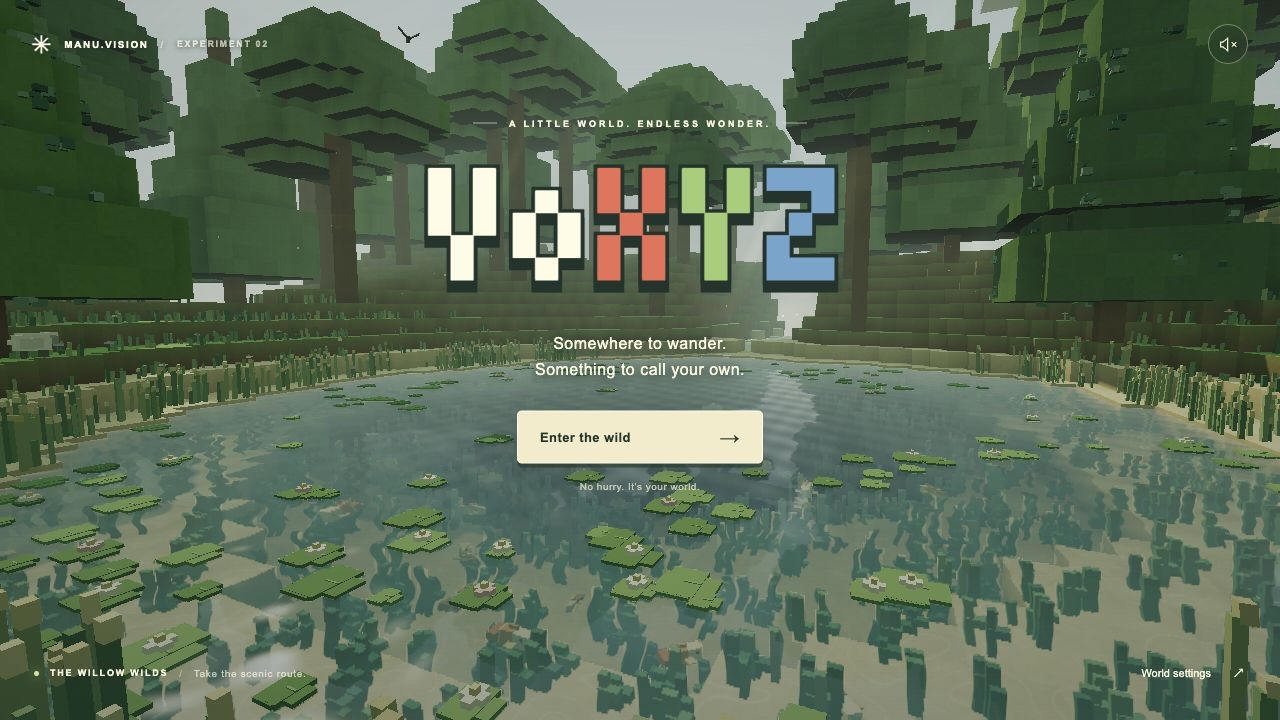
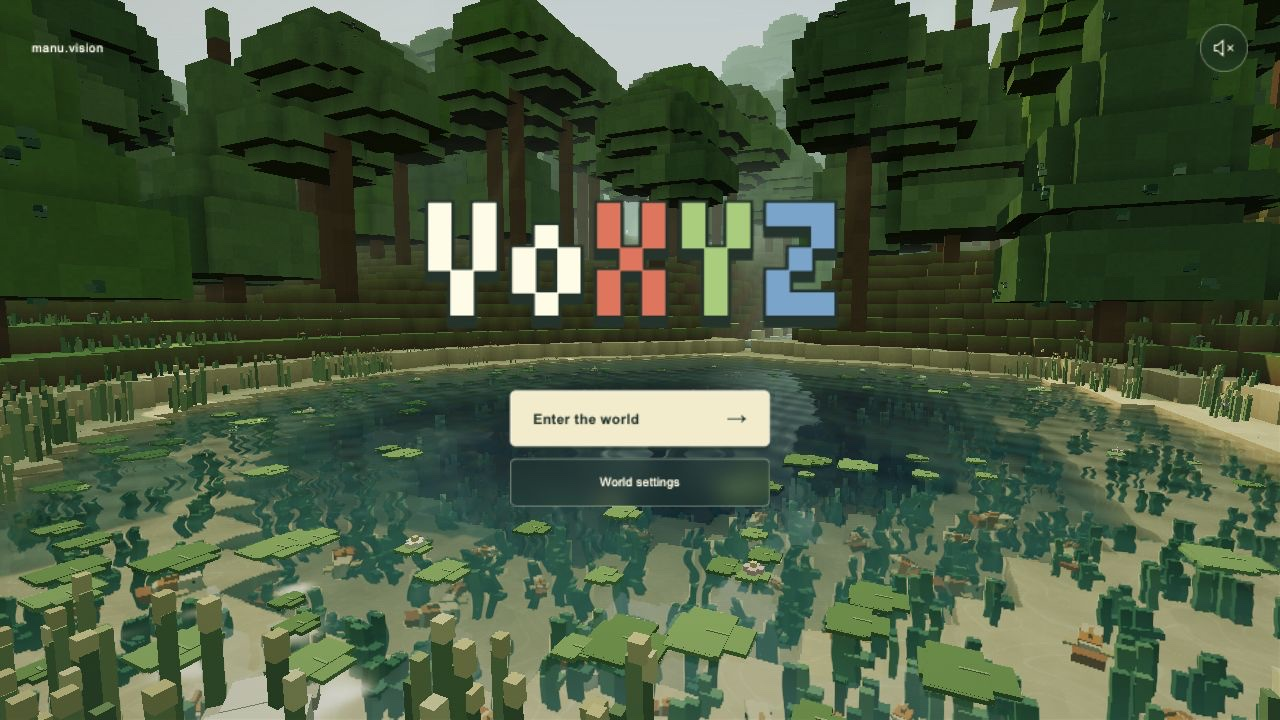
Verify Voxyz layouts and polish swim input and project preview

diff --git a/voxyz/tests/player.test.js b/voxyz/tests/player.test.js
@@ -391,3 +391,25 @@ test('a cancelled locked pointer stops its held action even without a button num
   f.tick(.5);
   assert.deepEqual(f.actions, ['break']);
 });
+
+test('a swim-up tap released before the next frame creates a short stroke, not a lost input or a held ascent', () => {
+  const water = (x, y) => y < 1 ? 1 : y < 8 ? 7 : 0;
+  const idle = fixture(water);
+  const tapped = fixture(water);
+  const held = fixture(water);
+  for (const f of [idle, tapped, held]) { f.player.teleport(.5, 1, .5); f.tick(.3); }
+  tapped.controls['jump-button'].dispatch('pointerdown', { pointerId: 1, pointerType: 'touch' });
+  tapped.win.dispatch('pointerup', { pointerId: 1, pointerType: 'touch' });
+  held.controls['jump-button'].dispatch('pointerdown', { pointerId: 2, pointerType: 'touch' });
+  assert.equal(tapped.player._touchJump, false, 'the complete tap happened before any physics update');
+  for (const f of [idle, tapped, held]) f.tick(.12);
+  assert.ok(tapped.player.position.y > idle.player.position.y + .05, 'buffered tap visibly lifts the player from the pond floor');
+  assert.ok(tapped.player.velocity.y > 0);
+  for (const f of [idle, tapped, held]) f.tick(.7);
+  assert.ok(held.player.position.y > tapped.player.position.y + .7, 'holding still sustains swimming after the tap stroke ends');
+  assert.equal(tapped.player._jumpBuffer, 0);
+  assert.ok(tapped.player.velocity.y <= 0, 'a released tap does not keep accelerating upward');
+  tapped.tick(1);
+  assert.ok(Math.abs(tapped.player.position.y - 1) < .0001);
+  for (const f of [idle, tapped, held]) f.player.dispose();
+});

diff --git a/voxyz/index.html b/voxyz/index.html
@@ -3,7 +3,7 @@
 <head>
   <meta charset="utf-8"><meta name="viewport" content="width=device-width,initial-scale=1,maximum-scale=1,viewport-fit=cover">
   <meta name="theme-color" content="#243d34"><meta name="description" content="Explore, shape, and settle into Voxyz, a living voxel wilderness by Manu.Vision.">
-  <meta property="og:title" content="Voxyz"><meta property="og:description" content="A cozy, living voxel wilderness. Wander, swim, build, and discover."><meta property="og:image" content="https://manu.vision/voxyz/preview.jpg">
+  <meta property="og:title" content="Voxyz"><meta property="og:description" content="A cozy, living voxel wilderness. Wander, swim, build, and discover."><meta property="og:image" content="https://manu.vision/voxyz/preview.jpg?v=2">
   <meta property="og:type" content="website"><meta property="og:url" content="https://manu.vision/voxyz/"><meta name="twitter:card" content="summary_large_image"><link rel="canonical" href="https://manu.vision/voxyz/">
   <title>Voxyz</title>
   <link rel="icon" href="icon.svg" type="image/svg+xml"><link rel="stylesheet" href="style.css?v=2">

diff --git a/index.html b/index.html
@@ -273,7 +273,7 @@
                         <span><small>Tech Lab Design Research</small><strong>Protopica</strong></span><b aria-hidden="true">↗</b>
                     </a>
                     <a class="lab-card lab-card--voxyz" href="voxyz/">
-                        <picture><img src="voxyz/preview.jpg" alt="Voxyz: a reflective pond surrounded by a living voxel forest" width="1280" height="720" loading="lazy" decoding="async"></picture>
+                        <picture><img src="voxyz/preview.jpg?v=2" alt="Voxyz: a reflective pond surrounded by a living voxel forest" width="1280" height="720" loading="lazy" decoding="async"></picture>
                         <span><small>A Living Voxel World</small><strong>Voxyz</strong></span><b aria-hidden="true">↗</b>
                     </a>
                     <button class="lab-card lab-card--apps" type="button" data-dialog="appsDialog" aria-haspopup="dialog" aria-label="Open Manuel's Mobile Apps">

diff --git a/voxyz/player.js b/voxyz/player.js
@@ -466,7 +466,9 @@ export class Player {
       if (this._swimming) {
         // Buoyancy is conditional on being in water: holding jump cannot fly.
         this.velocity.y -= 4.5 * step;
-        if (wantsUp) this.velocity.y += 15.5 * step;
+        // A tap can start and finish between frames. Reuse the short jump
+        // buffer as a swim stroke while held input continues sustained ascent.
+        if (wantsUp || this._jumpBuffer > 0) this.velocity.y += 15.5 * step;
         if (wantsDown) this.velocity.y -= 7 * step;
         this.velocity.y *= Math.exp(-2.6 * step);
         this.velocity.y = clamp(this.velocity.y, -4, 3.6);

diff --git a/voxyz/README.md b/voxyz/README.md
@@ -74,13 +74,13 @@ Browser checks verified title-to-play camera handoff, hotbar keyboard selection,
 
 ## Control and exploration revision
 
-All 55 automated tests pass for this revision, and the local HTTP smoke check returns 200 for the entry page and every updated module. Browser visual verification and publishing remain pending because the development Mac is locked.
+All 56 automated tests pass for this revision, and the local HTTP smoke check returns 200 for the entry page and every updated module. Browser checks on September 6, 2026 verified the minimal title, five-slot inventory, direct camera dragging, camera leveling, immediate break/place actions, saved edits and discovery, map open/close, seed changes, and responsive control spacing at 390 × 844, 390 × 480 and 700 × 390. The map close button remains accessible with a 48-character seed.
 
 The title now contains only the logo, entry button and world-settings button, with the site and sound controls in the upper corners. The in-game inventory has five slots: Meadow, Stone, Timber, Water and Lantern. Touch action buttons respond on press and repeat while held; camera dragging follows pointer deltas without momentum. Center camera levels pitch and roll while preserving heading.
 
 Fine scenery uses coordinate-specific random streams so camera movement and edits cannot re-roll unrelated plants. Animal identities and animation state survive scenery refreshes. Map discovery has its own compact, persistent per-seed grid; raster sampling is cached, bounded and restricted to discovered cells.
 
-A terrain-only CPU benchmark of the expanded `fern-62408` neighborhood generated 137 chunks / 514,210 triangles / 49 MiB of geometry for radius six, and 221 chunks / 823,118 triangles / 78.5 MiB for radius eight. These figures describe generation and geometry, not GPU frame rate. Browser performance measurements above belong to the original release; this revision still needs its browser visual and frame-rate check before publishing.
+A terrain-only CPU benchmark of the expanded `fern-62408` neighborhood generated 137 chunks / 514,210 triangles / 49 MiB of geometry for radius six, and 221 chunks / 823,118 triangles / 78.5 MiB for radius eight. These figures describe generation and geometry, not GPU frame rate. The revised scene settled at 60 fps at 1280 × 720, adaptive scale 1, with all 221 chunks resident. A fresh 390 × 844 load used 137 chunks at scale .85 and held 60 fps while moving into the pond, growing map discovery and swimming underwater. These are browser measurements on the development Mac, not physical-phone benchmarks. Brief drops were observed during initial shader compilation and the first newly placed lantern; the steady-state 60 fps target is not an absolute frame-time guarantee. No shader or browser console errors were reported.
 
 ## Rendering scope and performance
 
